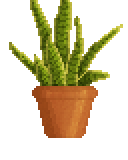
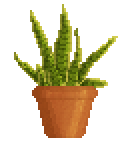
Added dead plants to files and to the PlantType class

Changed region(s): [[0.0625, 0.0, 0.9688, 0.5625]]

diff --git a/src/entity/PlantType.java b/src/entity/PlantType.java
@@ -12,9 +12,12 @@ import javax.swing.*;
 public class PlantType {
     private String plantTypeName;
     private String plantTypeNameAlternative;
-    private ImageIcon grownPlantImage;
-    private ImageIcon littlePlantImage;
-    private ImageIcon deadPlantImage;
+    private ImageIcon smallPlantImage;
+    private ImageIcon mediumPlantImage;
+    private ImageIcon largePlantImage;
+    private ImageIcon smallDeadPlantImage;
+    private ImageIcon mediumDeadPlantImage;
+    private ImageIcon largeDeadPlantImage;
     private ImageIcon plantImageButton;
     private ImageIcon plantImageButtonHover;
     private String plantInformation;
@@ -32,16 +35,19 @@ public class PlantType {
      * @author Elvira Grubb
      * @author Petri Närhi
      * */
-    public PlantType(String plantTypeName, String plantTypeNameAlternative, String grownPlantImage, String plantImageButton, String plantImageButtonHover, String plantInformation, String littlePlantImage, String deadPlantImage)
+    public PlantType(String plantTypeName, String plantTypeNameAlternative, String plantImageButton, String plantImageButtonHover, String plantInformation, String plantStage1Image, String plantStage2Image, String plantStage3Image, String plantStage1DeadImage, String plantStage2DeadImage, String plantStage3DeadImage)
     {
         this.plantTypeName = plantTypeName;
         this.plantTypeNameAlternative = plantTypeNameAlternative;
-        this.grownPlantImage = new ImageIcon(grownPlantImage);
-        this.littlePlantImage = new ImageIcon(littlePlantImage);
-        this.deadPlantImage = new ImageIcon(deadPlantImage);
         this.plantImageButton = new ImageIcon(plantImageButton);
         this.plantImageButtonHover = new ImageIcon(plantImageButtonHover);
         this.plantInformation = plantInformation;
+        this.smallPlantImage = new ImageIcon(plantStage1Image);
+        this.mediumPlantImage = new ImageIcon(plantStage2Image);
+        this.largePlantImage = new ImageIcon(plantStage3Image);
+        this.smallDeadPlantImage = new ImageIcon(plantStage1DeadImage);
+        this.mediumDeadPlantImage = new ImageIcon(plantStage2DeadImage);
+        this.largeDeadPlantImage = new ImageIcon(plantStage3DeadImage);
     }
     public String getPlantTypeName()
     {
@@ -59,7 +65,7 @@ public class PlantType {
      * */
     public ImageIcon getGrownPlantImage()
     {
-        return grownPlantImage;
+        return largePlantImage;
     }
 
     public ImageIcon getPlantImageButton()
@@ -83,7 +89,7 @@ public class PlantType {
      * @author Petri Närhi
      * */
     public ImageIcon getLittlePlantImage() {
-        return littlePlantImage;
+        return smallPlantImage;
     }
 
     /**
@@ -92,7 +98,7 @@ public class PlantType {
      * @author Petri Närhi
      * */
     public ImageIcon getDeadPlantImage() {
-        return deadPlantImage;
+        return largeDeadPlantImage;
     }
 
     /**

diff --git a/src/controller/Controller.java b/src/controller/Controller.java
@@ -160,7 +160,7 @@ public class Controller {
 				String[] plantInformation;
 				plantInformation = string.split( "," );
 
-				plantType = new PlantType(plantInformation[0], plantInformation[1], plantInformation[2], plantInformation[3], plantInformation[4], plantInformation[5], plantInformation[6], plantInformation[7]);
+				plantType = new PlantType(plantInformation[0], plantInformation[1], plantInformation[2], plantInformation[3], plantInformation[4], plantInformation[5], plantInformation[6], plantInformation[7],plantInformation[8], plantInformation[9], plantInformation[10]);
 				plantTypes.add(plantType);
 				string = br.readLine();
 			}
